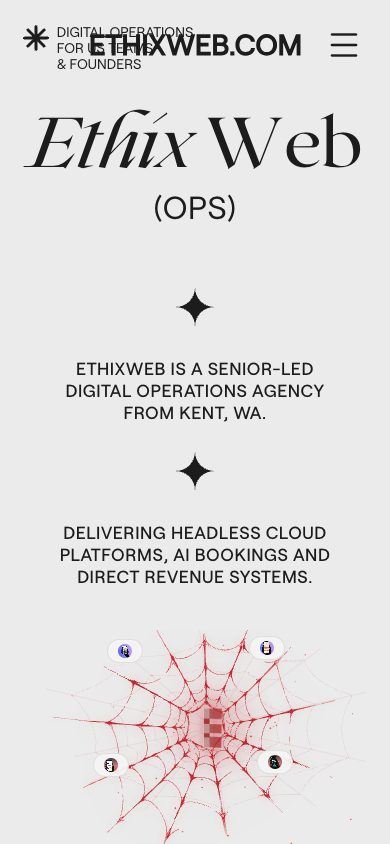
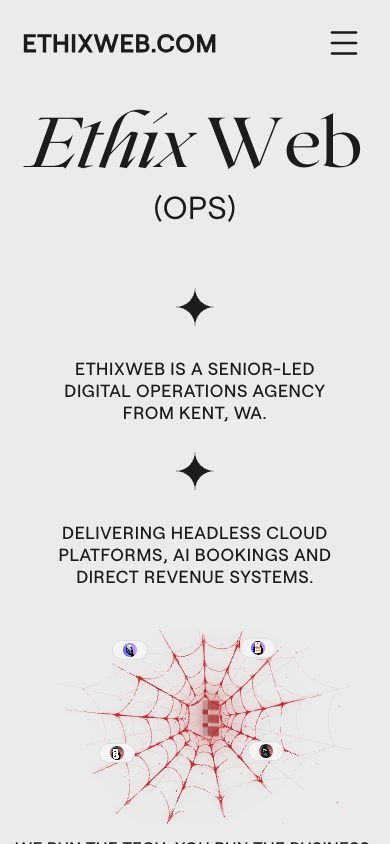
refactor: update interactive web component dimensions, landing styles, and add motion dependency

diff --git a/src/styles/landing.css b/src/styles/landing.css
@@ -35,15 +35,15 @@
   gap: 0.6rem;
   font-family: "Roobert", sans-serif;
   font-weight: 400;
-  font-size: 1.05rem;
-  line-height: 1.2;
+  font-size: 13px;
+  line-height: 1.25;
   color: rgb(28, 28, 28);
   text-transform: uppercase;
   letter-spacing: 0.02em;
 }
 
 .landing-root .nav-left .star {
-  font-size: 2.2rem;
+  font-size: 1.8rem;
   line-height: 1.2;
   flex-shrink: 0;
 }
@@ -54,7 +54,7 @@
   transform: translateX(-50%);
   font-family: "Roobert", sans-serif;
   font-weight: 900;
-  font-size: 2.1rem;
+  font-size: 22px;
   letter-spacing: 0.06em;
   text-transform: uppercase;
   color: rgb(28, 28, 28);
@@ -64,7 +64,7 @@
 .landing-root .nav-right {
   font-family: "Roobert", sans-serif;
   font-weight: 400;
-  font-size: 1.2rem;
+  font-size: 13px;
   line-height: 1.45;
   color: rgb(28, 28, 28);
   text-transform: uppercase;
@@ -149,7 +149,7 @@
 /* ── NAV ROW WITH HOVER BANNER ── */
 .landing-root .nav-row {
   position: absolute;
-  top: 48%;
+  top: 47%;
   left: 0;
   width: 100%;
   display: flex;
@@ -163,7 +163,7 @@
 .landing-root .nav-row-item {
   display: flex;
   flex-direction: column;
-  gap: 0.35rem;
+  gap: 0.3rem;
   text-decoration: none;
   color: inherit;
   cursor: pointer;
@@ -171,7 +171,7 @@
 
 .landing-root .nav-row-item .num {
   font-family: "Roobert", sans-serif;
-  font-size: 0.95rem;
+  font-size: 12px;
   font-weight: 400;
   opacity: 0.5;
   line-height: 1;
@@ -180,7 +180,7 @@
 
 .landing-root .nav-row-item .label {
   font-family: "Roobert", sans-serif;
-  font-size: 1.25rem;
+  font-size: 14px;
   font-weight: 500;
   line-height: 1;
   transition: color 0.4s ease;
@@ -188,7 +188,7 @@
 
 .landing-root .copyright {
   font-family: "Roobert", sans-serif;
-  font-size: 0.95rem;
+  font-size: 12px;
   font-weight: 400;
   opacity: 0.5;
   line-height: 1;
@@ -281,9 +281,9 @@
   bottom: 4%;
   left: 0;
   width: 100%;
-  padding: 0 7vw;
+  padding: 0 8.15vw;
   display: grid;
-  grid-template-columns: 1fr 2.5fr 1fr;
+  grid-template-columns: 1fr 2fr 1fr;
   gap: 2vw;
   align-items: end;
 }
@@ -304,15 +304,15 @@
   flex-direction: column;
   align-items: center;
   text-align: center;
-  gap: 0.6rem;
+  gap: 0.5rem;
 }
 
 .landing-root .sparkle {
   display: block;
   color: rgb(28, 28, 28);
   line-height: 1;
-  font-size: 3rem;
-  margin-bottom: 2.8rem;
+  font-size: 30px;
+  margin-bottom: 24px;
 }
 
 .landing-root .person-copy {
@@ -320,18 +320,20 @@
   font-weight: 500;
   text-transform: uppercase;
   color: rgb(28, 28, 28);
-  font-size: 1.15rem;
-  line-height: 1.32;
-  letter-spacing: 0.03em;
+  font-size: 16px;
+  line-height: 1.35;
+  letter-spacing: 0.035em;
+  white-space: nowrap;
 }
 
 .landing-root .tagline {
   font-family: "Roobert", sans-serif;
   font-weight: 500;
   color: rgb(28, 28, 28);
-  font-size: 1.15rem;
-  letter-spacing: 0.04em;
-  margin-top: 0.2rem;
+  font-size: 14px;
+  letter-spacing: 0.03em;
+  margin-top: 0.35rem;
+  white-space: nowrap;
 }
 
 /* ── 3D EMBLEM & WEB ANIMATIONS ── */
@@ -386,29 +388,24 @@
   }
 
   .landing-root .nav {
-    padding: 1.5rem 1.4rem;
-    align-items: flex-start;
+    display: flex;
+    justify-content: space-between;
+    align-items: center;
+    padding: 1.2rem 1.4rem;
   }
 
   .landing-root .nav-left {
-    max-width: 12rem;
-    gap: 0.4rem;
-    font-size: 0.88rem;
-    line-height: 1.15;
-    letter-spacing: 0;
-  }
-
-  .landing-root .nav-left .star {
-    font-size: 1.9rem;
+    display: none;
   }
 
   .landing-root .nav-center {
-    top: 1.5rem;
+    position: static;
     left: auto;
-    right: 5.5rem;
+    right: auto;
+    top: auto;
     transform: none;
-    font-size: 1.8rem;
-    letter-spacing: 0;
+    font-size: 1.55rem;
+    letter-spacing: 0.04em;
   }
 
   .landing-root .nav-right {
@@ -421,10 +418,9 @@
     display: inline-flex;
     align-items: center;
     justify-content: center;
-    width: 3.8rem;
-    height: 3.8rem;
-    margin-top: -0.6rem;
-    margin-right: -0.4rem;
+    width: 3rem;
+    height: 3rem;
+    margin: 0;
     border: 0;
     border-radius: 0;
     background: transparent;

diff --git a/src/components/InteractiveWeb.jsx b/src/components/InteractiveWeb.jsx
@@ -156,7 +156,7 @@ export default function InteractiveWeb() {
       ref={containerRef}
       onPointerMove={handlePointerMove}
       onPointerLeave={handlePointerLeave}
-      className="relative w-full max-w-[420px] sm:max-w-[480px] md:max-w-[530px] aspect-[1234/772] select-none cursor-pointer"
+      className="relative w-full max-w-[310px] sm:max-w-[350px] md:max-w-[390px] aspect-[1234/772] select-none cursor-pointer"
       style={{
         transform: `perspective(900px) rotateX(${tilt.rx}deg) rotateY(${tilt.ry}deg)`,
         transition: 'transform 200ms cubic-bezier(0.2, 0.9, 0.3, 1)',
@@ -258,17 +258,18 @@ export default function InteractiveWeb() {
       >
         {/* Soft Ambient Crimson Glow */}
         <div
-          className="absolute rounded-full w-20 h-20 pointer-events-none bg-[#c0272d]/15 blur-md"
+          className="absolute rounded-full w-16 h-16 pointer-events-none bg-[#c0272d]/15 blur-md"
         />
 
         {/* Crimson Glass EthixWeb Logo (Auto-spinning 3D emblem) */}
         <div
-          className="relative w-12 h-12 md:w-14 md:h-14 animate-emblem-spin"
+          className="relative w-11 h-11 md:w-13 md:h-13 animate-emblem-spin"
           style={{ transformOrigin: '50% 50%' }}
         >
           <img
             src={emblemImg}
             alt="EthixWeb Emblem"
+            fetchPriority="high"
             className="w-full h-full object-contain select-none"
             style={{
               filter: 'drop-shadow(0 0 2px rgba(255,255,255,0.5)) drop-shadow(0 0 8px rgba(192,39,45,0.45))', /* taste-skill-ignore */
@@ -285,7 +286,7 @@ export default function InteractiveWeb() {
             key={`anchor-node-${i}`}
             onMouseEnter={() => setHoveredAnchor(i)}
             onMouseLeave={() => setHoveredAnchor(-1)}
-            className="absolute -translate-x-1/2 -translate-y-1/2 flex items-center gap-1.5 px-2.5 py-1 rounded-full bg-[#f4f4f4]/95 text-[#1c1c1c] text-[11px] font-medium transition-[transform,background-color] duration-200 pointer-events-auto border border-[#1c1c1c]/10"
+            className="absolute -translate-x-1/2 -translate-y-1/2 flex items-center gap-1.5 px-2.5 py-0.5 rounded-full bg-[#f4f4f4]/95 text-[#1c1c1c] text-[10.5px] font-medium transition-[transform,background-color] duration-200 pointer-events-auto border border-[#1c1c1c]/10"
             style={{
               left: `${(anchor.x / VB_W) * 100}%`,
               top: `${(anchor.y / VB_H) * 100}%`,
@@ -300,7 +301,7 @@ export default function InteractiveWeb() {
                 className="w-full h-full object-cover"
               />
             </div>
-            <span className="hidden min-[420px]:inline tracking-tight text-[11px] font-medium whitespace-nowrap">
+            <span className="hidden min-[420px]:inline tracking-tight text-[10.5px] font-medium whitespace-nowrap">
               {anchor.badge}
             </span>
           </div>
